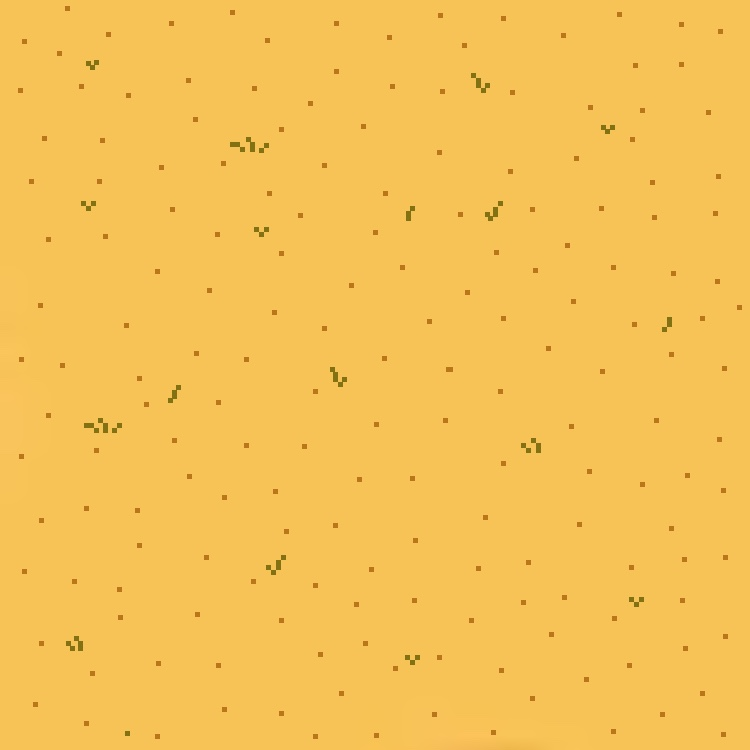
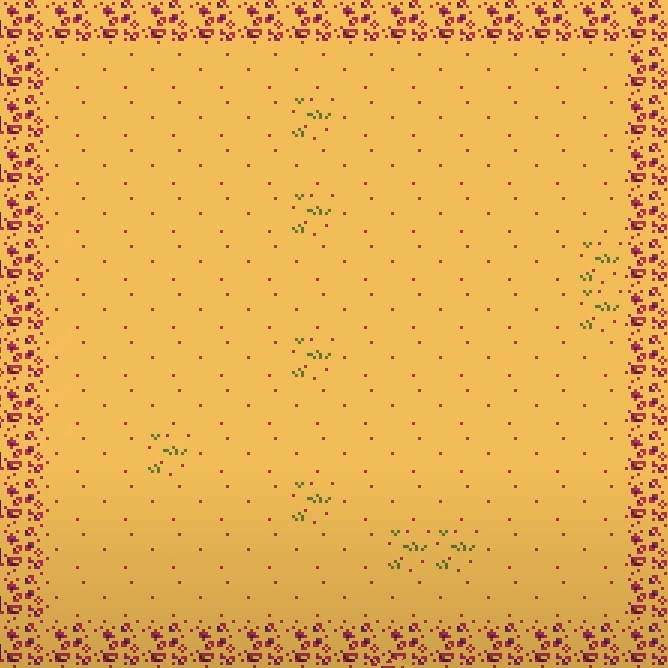
new background

diff --git a/main.py b/main.py
@@ -19,6 +19,7 @@ pygame.display.set_icon(logo)
 
 # Carga el fondo y el personaje
 fondo = pygame.image.load("img/GameBackground.jpg")
+
 pantalla.blit(fondo, (0, 0))
 # Carga de la bala
 bullet = pygame.image.load("img/bullet.png")
@@ -64,6 +65,7 @@ consolas = pygame.font.match_font("consolas")
 ROJO = (189, 23, 20, 1)
 
 # Redimensionamos las imágenes del personaje
+fondo = pygame.transform.scale(fondo, (750, 750))
 quietoarriba = pygame.transform.scale(quietoarriba, (60, 60))
 caminaarriba1 = pygame.transform.scale(caminaarriba1, (60, 60))
 caminaarriba2 = pygame.transform.scale(caminaarriba2, (60, 60))
